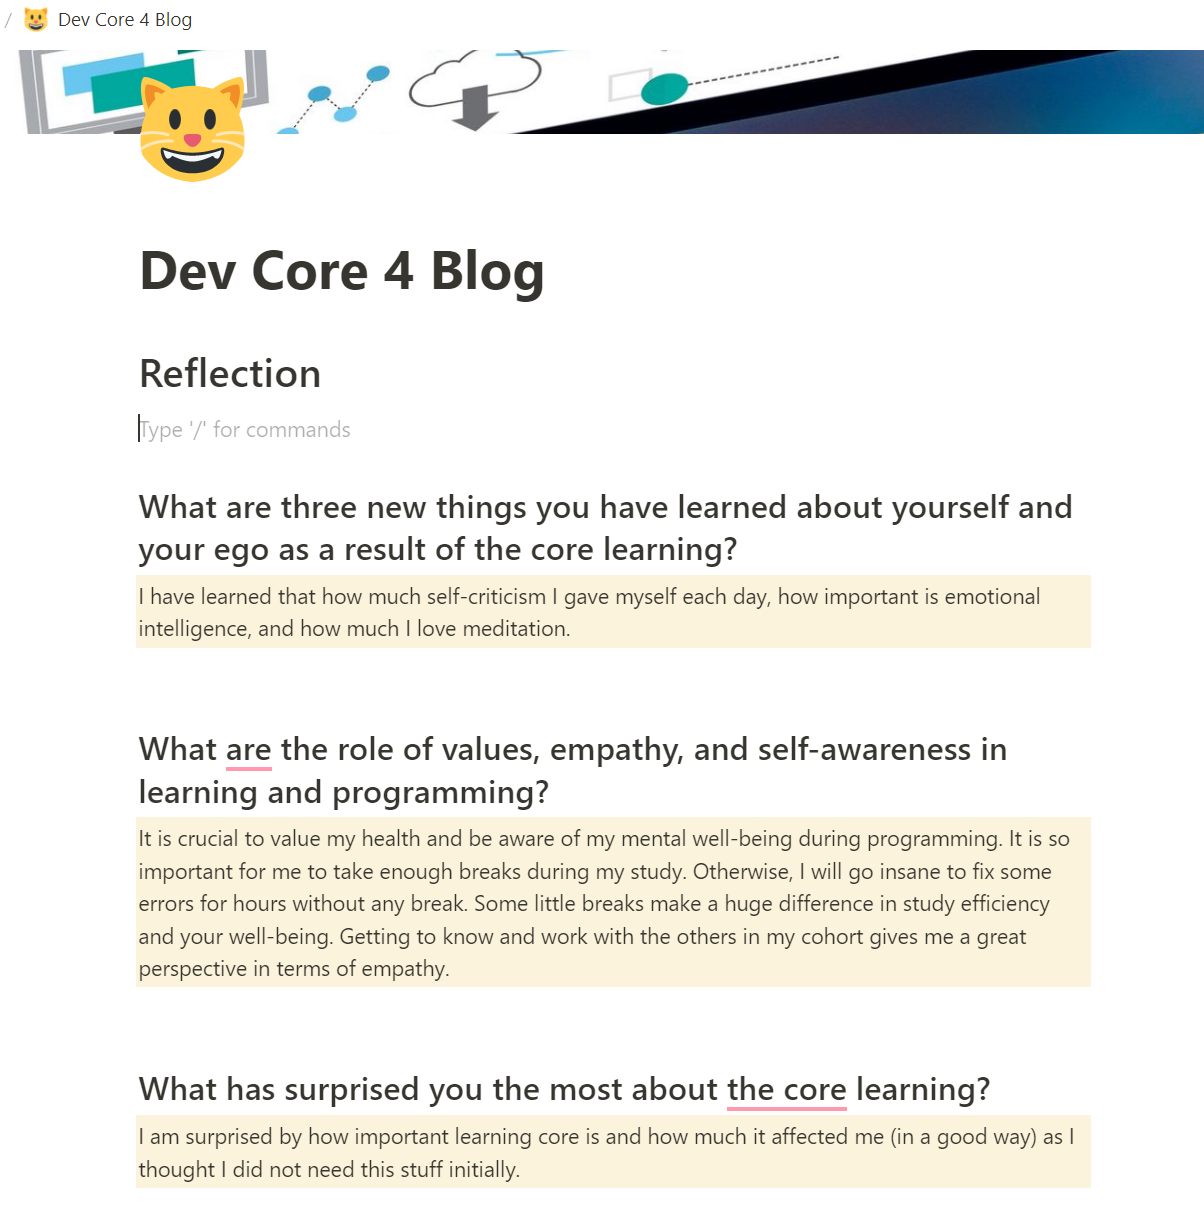
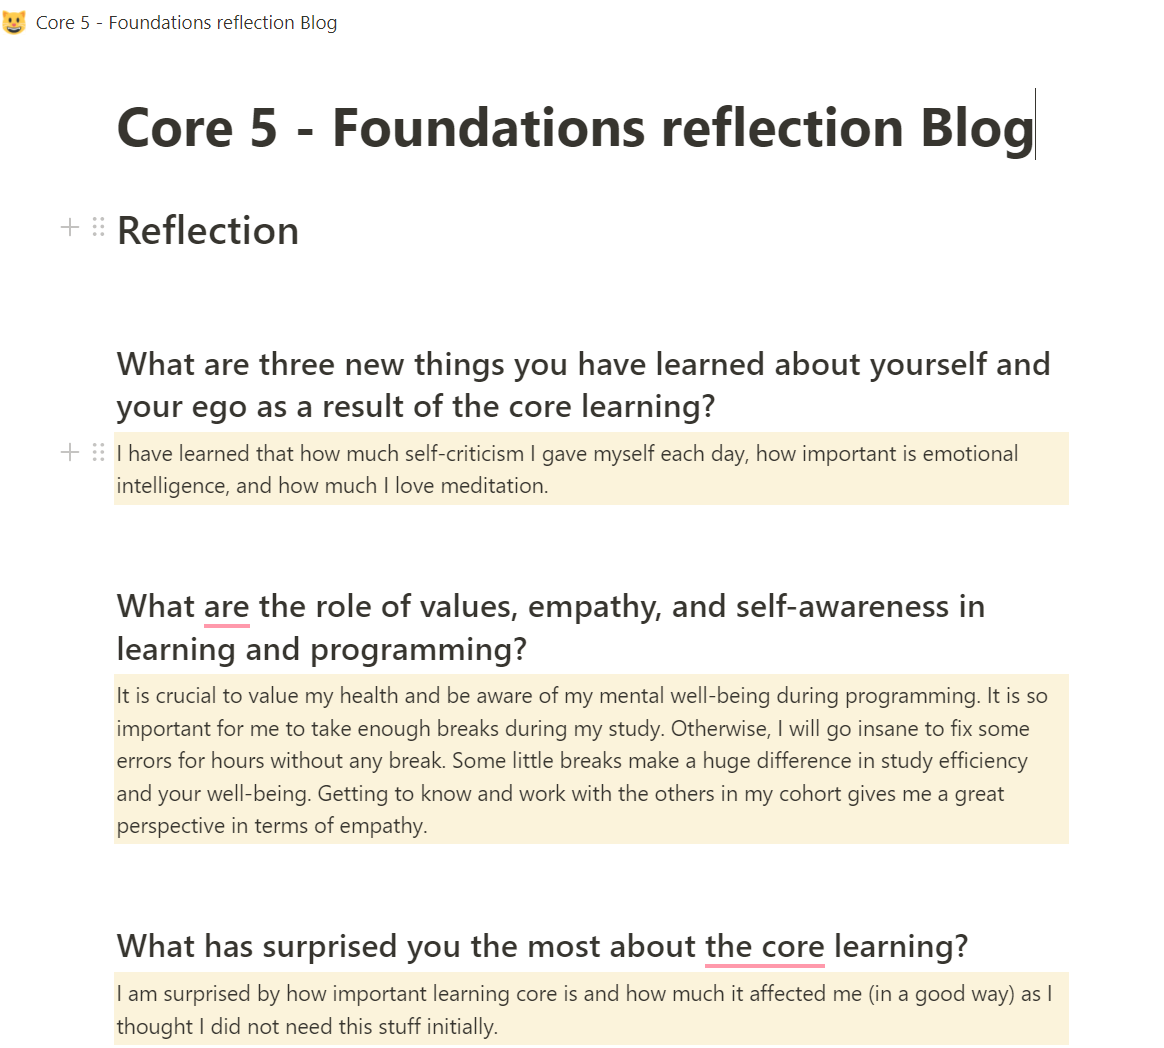
add foundation reflection blog

diff --git a/foundations-reflection.html b/foundations-reflection.html
@@ -1,7 +1,7 @@
 <!DOCTYPE html>
 <html lang="en">
   <head>
-    <title>Kate's Learning Plan</title>
+    <title>Kate's Tech Blog</title>
     <meta name="viewport" content="width=device-width, initial-scale=1.0, maximum-scale=1, user-scalable=0">
     <meta charset="utf-8">
     <link rel="stylesheet" href="styles/main.css">
@@ -13,15 +13,13 @@
     <style>
 
       .container {
-          grid-template-rows: 70px 400px 1.8fr 1.4fr 150px;
+          grid-template-rows: 70px 400px 1fr 0.4fr 150px;
       }
 
       .content-large1 {
-        background-image:  url("images/kate2.png");
+        background-image:  url("images/kate1.png");
         padding-top:150px;
         font-size: larger;
-        text-align:center;
-        background-position: 955px 0px;
       }
       
     </style>
@@ -39,16 +37,16 @@
         </ul>
       </div>
       <div class="content-large1">
-        <h1>Kate's Learning Plan</h1>
+        <h1> Core Reflection Blog</h1>
       </div>
 
 
       <div class="content-large2">
-        <img class="center" src="images/note5a.png" alt="note" style="width: 80vw; ">
+        <img class="center" src="images/note13.png" alt="note" style="width: 80vw; ">
       </div>
 
       <div class="content-large3">
-        <img class="center" src="images/note6a.png" alt="note" style="width: 80vw; ">
+        <img class="center" src="images/note14.png" alt="note" style="width: 80vw; ">
       </div>
       
       <div class="footer">

diff --git a/learning-plan-Bootcamp.html b/learning-plan-Bootcamp.html
@@ -13,7 +13,7 @@
     <style>
 
       .container {
-          grid-template-rows: 70px 400px 1.8fr 1.4fr 150px;
+          grid-template-rows: 70px 400px 1.8fr 0.9fr 150px;
       }
 
       .content-large1 {
@@ -44,11 +44,11 @@
 
 
       <div class="content-large2">
-        <img class="center" src="images/note5a.png" alt="note" style="width: 80vw; ">
+        <img class="center" src="images/note5.png" alt="note" style="width: 80vw; ">
       </div>
 
       <div class="content-large3">
-        <img class="center" src="images/note6a.png" alt="note" style="width: 80vw; ">
+        <img class="center" src="images/note6.png" alt="note" style="width: 80vw; ">
       </div>
       
       <div class="footer">
